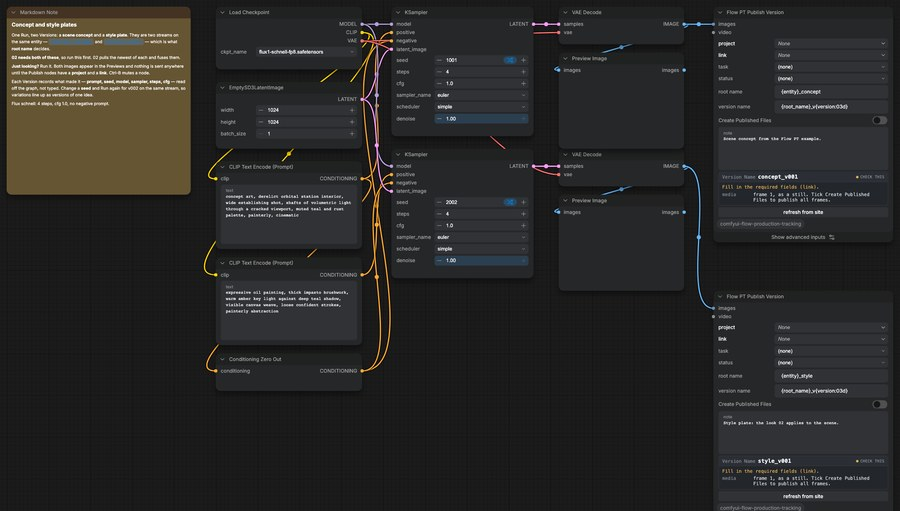
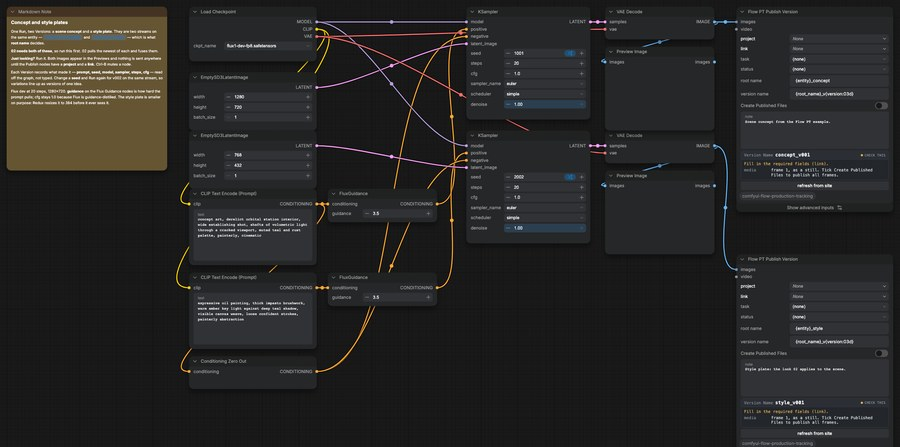
What the next session opens with, and what is not decided
Three things, written down rather than carried in a conversation.

**Credentials cannot ship as they are, and the answer is not settled.** `.env.local` lives inside the
pack, and ComfyUI Manager replaces that directory on update, so a Registry user loses their site URL,
script name and key the first time they upgrade and lands on empty pickers. That much is certain and
it is a release blocker.

What is only a starting point is the fix. Measured today: ComfyUI's settings panel does render a
`password` type an extension can register, settings persist in `user/default/comfy.settings.json`
which survives an update, and `GET /settings` returns the whole store unauthenticated, so the mask is
shoulder-surfing protection and nothing more. A workstation can live with that; a shared or farm
install cannot. The section says plainly that more research is needed and names what to look into,
rather than pretending a sketch is a design.

**Artist attribution is decided and unbuilt.** `Version.user` displays as Artist and defaults to the
caller, so every Version this pack has published is authored by the script rather than by a person.
Kevin's call: impersonate by default through sg-groundtruth 0.1.2, released today; fall back to
sending `user` when the token is refused; fall back to the script when no login resolves. The panel
reports which happened as an ordinary row, never an alert, because nothing stopped.
[…]

diff --git a/RELEASE.md b/RELEASE.md
@@ -403,12 +403,77 @@ are rebuilt.
 
 ---
 
+## Three things the next session opens with — written 2026-09-08
+
+### 1. Credentials cannot ship the way they are, and how they should is NOT settled
+
+**This is a release blocker, and the section below is a starting point rather than an answer. More
+research is needed and there is very likely a better mechanism than the two considered here.**
+
+What is certain: `.env.local` inside the pack cannot be distributed. Installed from the Registry the
+pack lives in `custom_nodes/comfyui-flow-production-tracking/`, which ComfyUI Manager **replaces on
+update**, so every user silently loses their site URL, script name and key the first time they
+upgrade, and lands on empty pickers with no idea why.
+
+What was measured on 2026-09-08:
+
+- ComfyUI's settings panel renders a `password` type, alongside `text`, `combo`, `boolean`, `number`,
+  `slider`, `url` and `image`. An extension can register one with `app.ui.settings.addSetting`.
+- Settings persist in `user/default/comfy.settings.json`, which is outside `custom_nodes/` and
+  therefore survives an update.
+- Settings are also served unauthenticated: `GET /settings` returns 200 and the whole store. The
+  `password` type masks the input in the UI and protects the value not at all. On a workstation that
+  is acceptable; on a shared or farm ComfyUI anyone who can reach the port can read the script key.
+
+A first sketch, explicitly not decided: settings as the discoverable default for a workstation, real
+environment variables taking precedence for farms, `.env.local` demoted to a development convenience
+in a checkout. Before building any of it, find out what other packs that need credentials actually
+do, whether ComfyUI has or plans a secret store, whether the settings route can be scoped, and what
+happens on a multi-user install. `/setup` is the thing that would write whichever answer wins.
+
+### 2. Artist attribution: decided, not built
+
+`Version.user` is the field Flow PT shows as **Artist** and it defaults to whoever called, so every
+Version this pack has ever published is authored by `comfyui-fpt 1.0` rather than by a person
+(sg-groundtruth `findings/entity_types/Version`).
+
+Decided by Kevin: impersonate by default, fall back rather than fail.
+
+1. `FPT.from_env(env, sudo_as_login=<login>)` — needs sg-groundtruth **0.1.2**, released 2026-09-08.
+   Sets `created_by` and `user` to the person.
+2. If the token is refused, send `user` explicitly and keep publishing. Refusals arrive at the token
+   endpoint before anything is written and name the reason.
+3. If no login resolves, the script, which is today's behaviour.
+
+The panel says which of the three happened as an ordinary readout row, never an alert: an alert is
+for something that stops a Run and this does not. `artist` becomes an advanced widget, appended last,
+defaulting to the resolved operator, so a supervisor can publish on someone's behalf.
+
+### 3. Adding a field is still not mechanical, and that was the point
+
+`widgets.py` made the order and the folding declarative, which is what was asked for at the time. It
+did not make **field types** declarative. Its `kind` vocabulary is ComfyUI's widget set — `text`,
+`multiline`, `int`, `bool`, `combo` — not Flow PT's `data_type` set, so an `entity` field like Artist
+fits none of them and the first instinct was to fudge it as a login string.
+
+What the table needs is `data_type -> widget`: `entity` to a searchable picker, `multi_entity` to a
+multi-picker, `date` to a date input, `list` to a combo built from the schema's own valid values,
+`checkbox` to a boolean, `text`/`float`/`number` to what they already are. Then adding a field is one
+`Field(...)` line naming a Flow PT field, and the widget follows from the schema rather than from a
+guess. The entity picker already exists for `link` and `project`; it is not reusable by name yet.
+
+That is the difference between "an operator with an LLM can add a field" and "an operator with an LLM
+can add a text field".
+
 ## Open, and who decides
 
 | question | who |
 |---|---|
 | Plate specs above (Plate A, Plate B) | Kevin — blocks `/demo-setup` and the template rebuild |
 | Release date: the node contract lands before release, so Monday is at risk | Kevin |
+| **How credentials ship.** `.env.local` in the pack is destroyed by a Manager update. Needs research, not a decision yet | Kevin, after research |
+| Artist attribution is decided and unbuilt: impersonate, fall back to the `user` field, then the script | built next |
+| `data_type -> widget` so adding a Flow PT field of any type is one line | built next |
 | Plate licensing: is "generated by a permissive model" the written answer? | Kevin |
 | How our node registers files written by `OCIO Write` instead of writing PNGs | **designed** — DESIGN.md, "Where someone else wrote the files, we register them". Kevin to read |
 | ~~Should `frame_count` default to 0 or stay 1?~~ | **closed 2026-09-07 — 0.** See below |
@@ -496,6 +561,25 @@ Open, and it is a product decision rather than a gap: the shipped templates all 
 was asked about. That reasoning holds for `00_example` and is arguable for the rest, since
 registering the files is half of what this pack does and most people will never tick a box they
 have not been told about.
+
+### The templates are about the nodes, not the pictures — 2026-09-08
+
+Kevin, after a run of image tuning: "The goal is more to showcase the nodes themselves, how to set
+them up in example workflows than anything else."
+
+Recorded because the pull the other way is strong and cost real time. Flux dev at 1280x720 is a
+clear step up from schnell and worth the swap; past that, tuning a fusion is not what these graphs
+are for. LoRA training for a demo was considered and dropped for the same reason.
+
+One thing the tuning did settle: on dev, Redux at `strength` 1.0 with `denoise` 0.65 replaces the
+scene outright — the published image was the style plate with a moon in it. Shipped at 0.45/0.60,
+which keeps the shot and takes the look. Those two knobs are the whole balance and the note names
+them.
+
+Also settled, and it is a framing rather than an asset: a style reference in a Flow PT shop is
+already a Version — mood boards and look refs live there. So 02 pulling one out of Flow PT is the
+real workflow, and only 01 manufacturing a stand-in is artificial. Shipping a reference image in the
+repo does not work anyway: `LoadImage` reads ComfyUI's `input/`, not this package.
 
 ## Facts worth not re-deriving
 

diff --git a/DESIGN.md b/DESIGN.md
@@ -89,6 +89,38 @@ because they hardcode one studio's conventions, or expose every field and become
 
 Instead the operator's agent inspects their site and writes a profile the node consumes.
 
+### Rules for putting these nodes in a graph you already use
+
+Learned by building the example workflows and then using them. They are guidance for an operator,
+and they are also what `/track-workflow` should do on its own, because an agent adding a Publish
+node to somebody's graph faces exactly these choices.
+
+- **A Preview before the Publish.** A graph whose only way to show you anything is to publish has
+  the shape backwards: looking is constant, publishing is occasional. Tap the same image into a
+  `PreviewImage` beside the Publish node. `/track-workflow` should add one when it adds a tap.
+- **Muting is how you iterate.** Ctrl-B on the Publish node runs the graph and sends nothing. Say so
+  where someone will read it, because the alternative is deleting and re-adding the node.
+- **One root name per stream, and it changes between runs.** Two ideas explored in one session are
+  two streams, not two versions of one. This is why `root name` is not in the fold.
+- **Lineage comes from the wiring, not from typing.** A Load node upstream of a Publish node is what
+  fills `sg_ai_generated_from`. Anyone reaching for `source versions` on a graph that already loads
+  its input is doing work the node has already done.
+- **`Create Published Files` is the other half.** Off means review media only. A house that hands
+  files to the next department wants it on, and it needs a storage the machine can see.
+
+### Prefilling a node from what the operator is already doing
+
+Open. Today a fresh Publish node knows the project from the profile and nothing else, so every field
+is typed. The site knows more than that: who the script key is acting as, which Tasks are assigned to
+them, which entities they have touched most recently, and what the codes on those entities look like.
+An agent setting the pack up — or the node itself — could propose a link, a task and a root name from
+that and be right most of the time.
+
+The pieces exist. `site.resolve_paths` already walks Flow PT's own field paths, `naming` already
+infers a convention from real codes, and the profile is already the place per-site answers live.
+What is missing is the read of recent activity and a decision about how a proposal is shown, since a
+guessed value that looks typed is worse than an empty field.
+
 ### Which fields a house wants in front of it
 
 `src/comfyui_fpt/widgets.py` declares each widget's `advanced` flag, and that is a default rather
